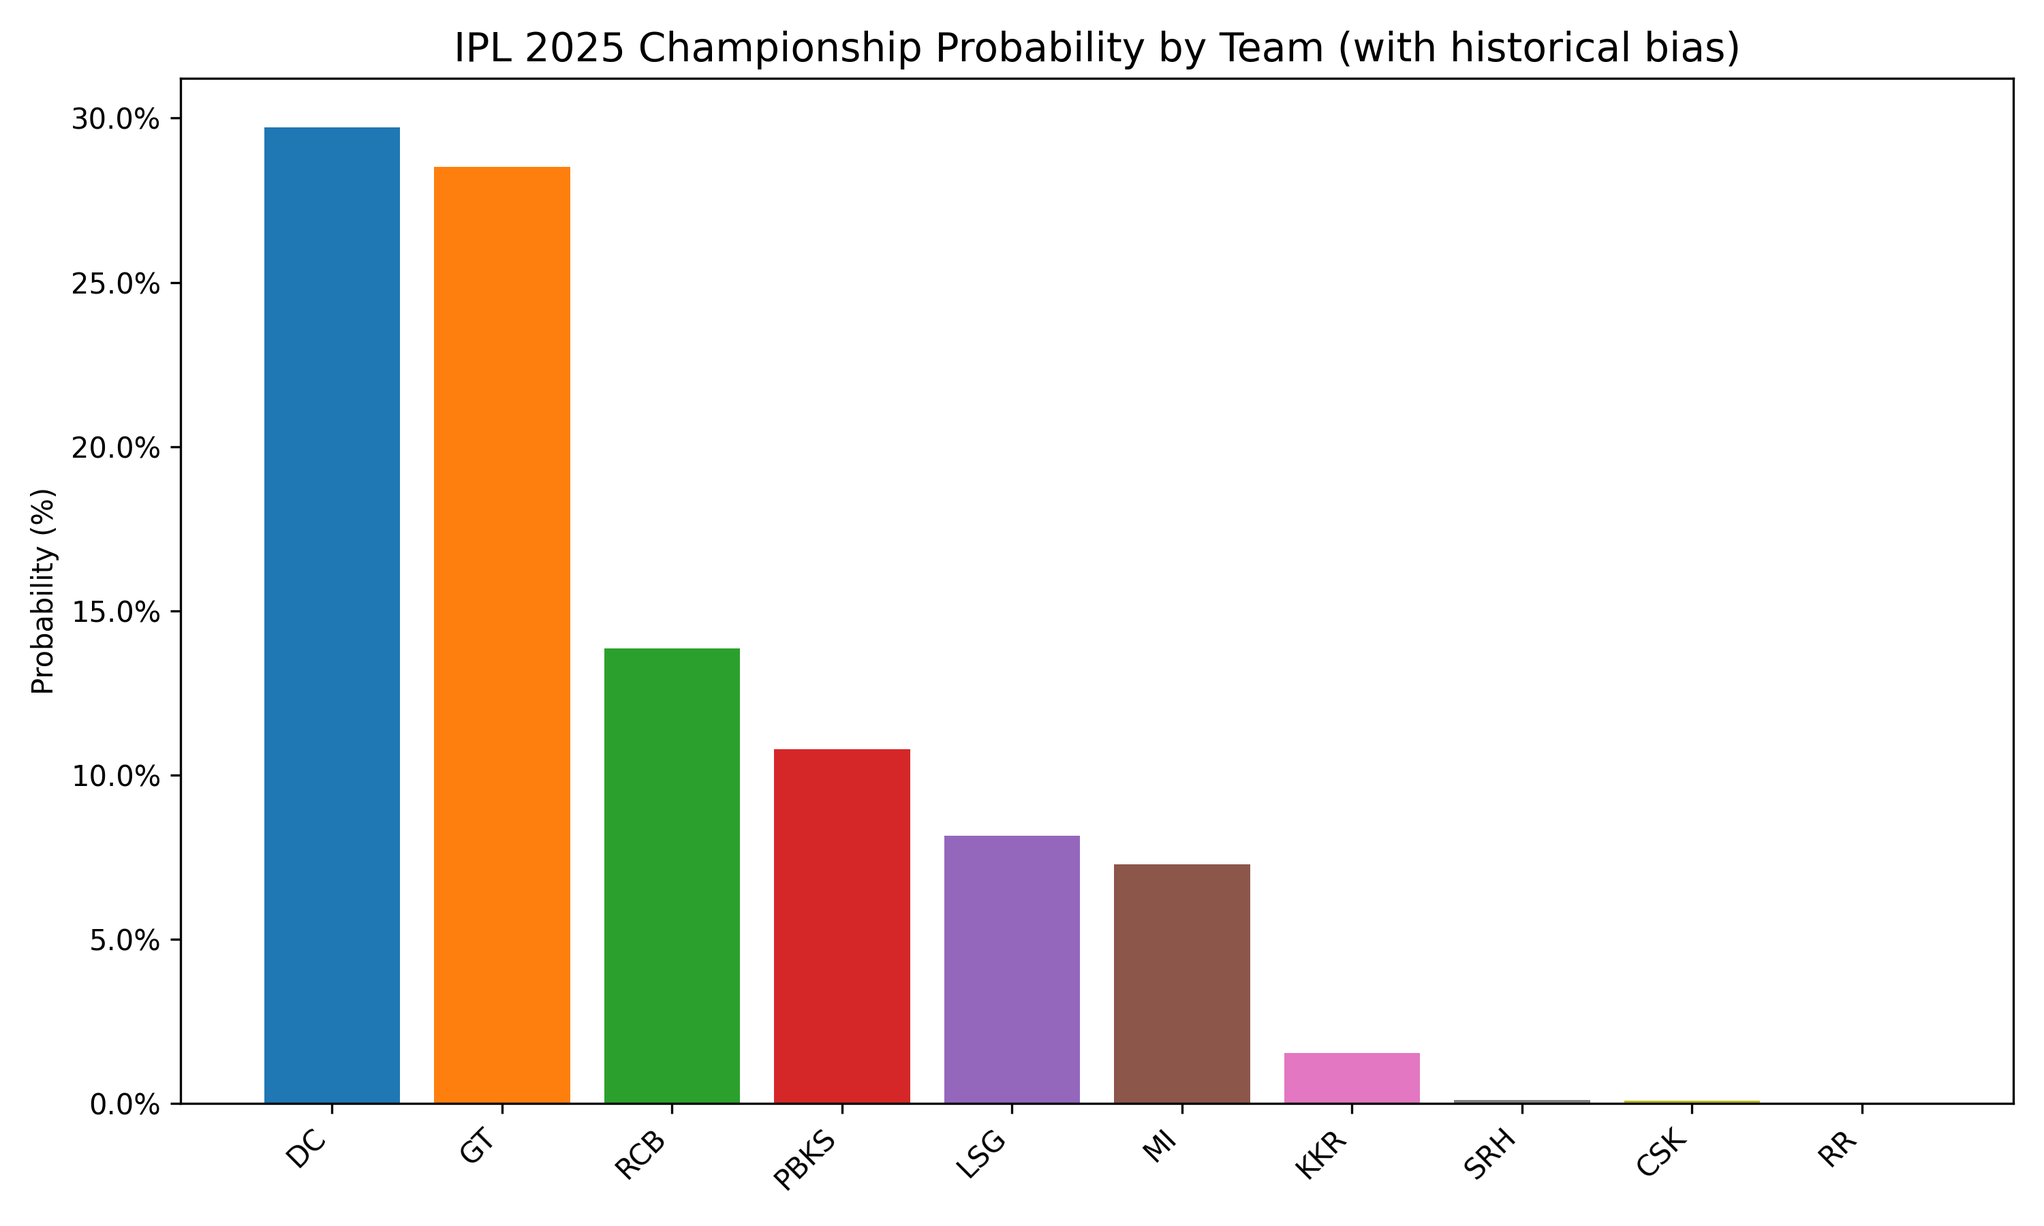
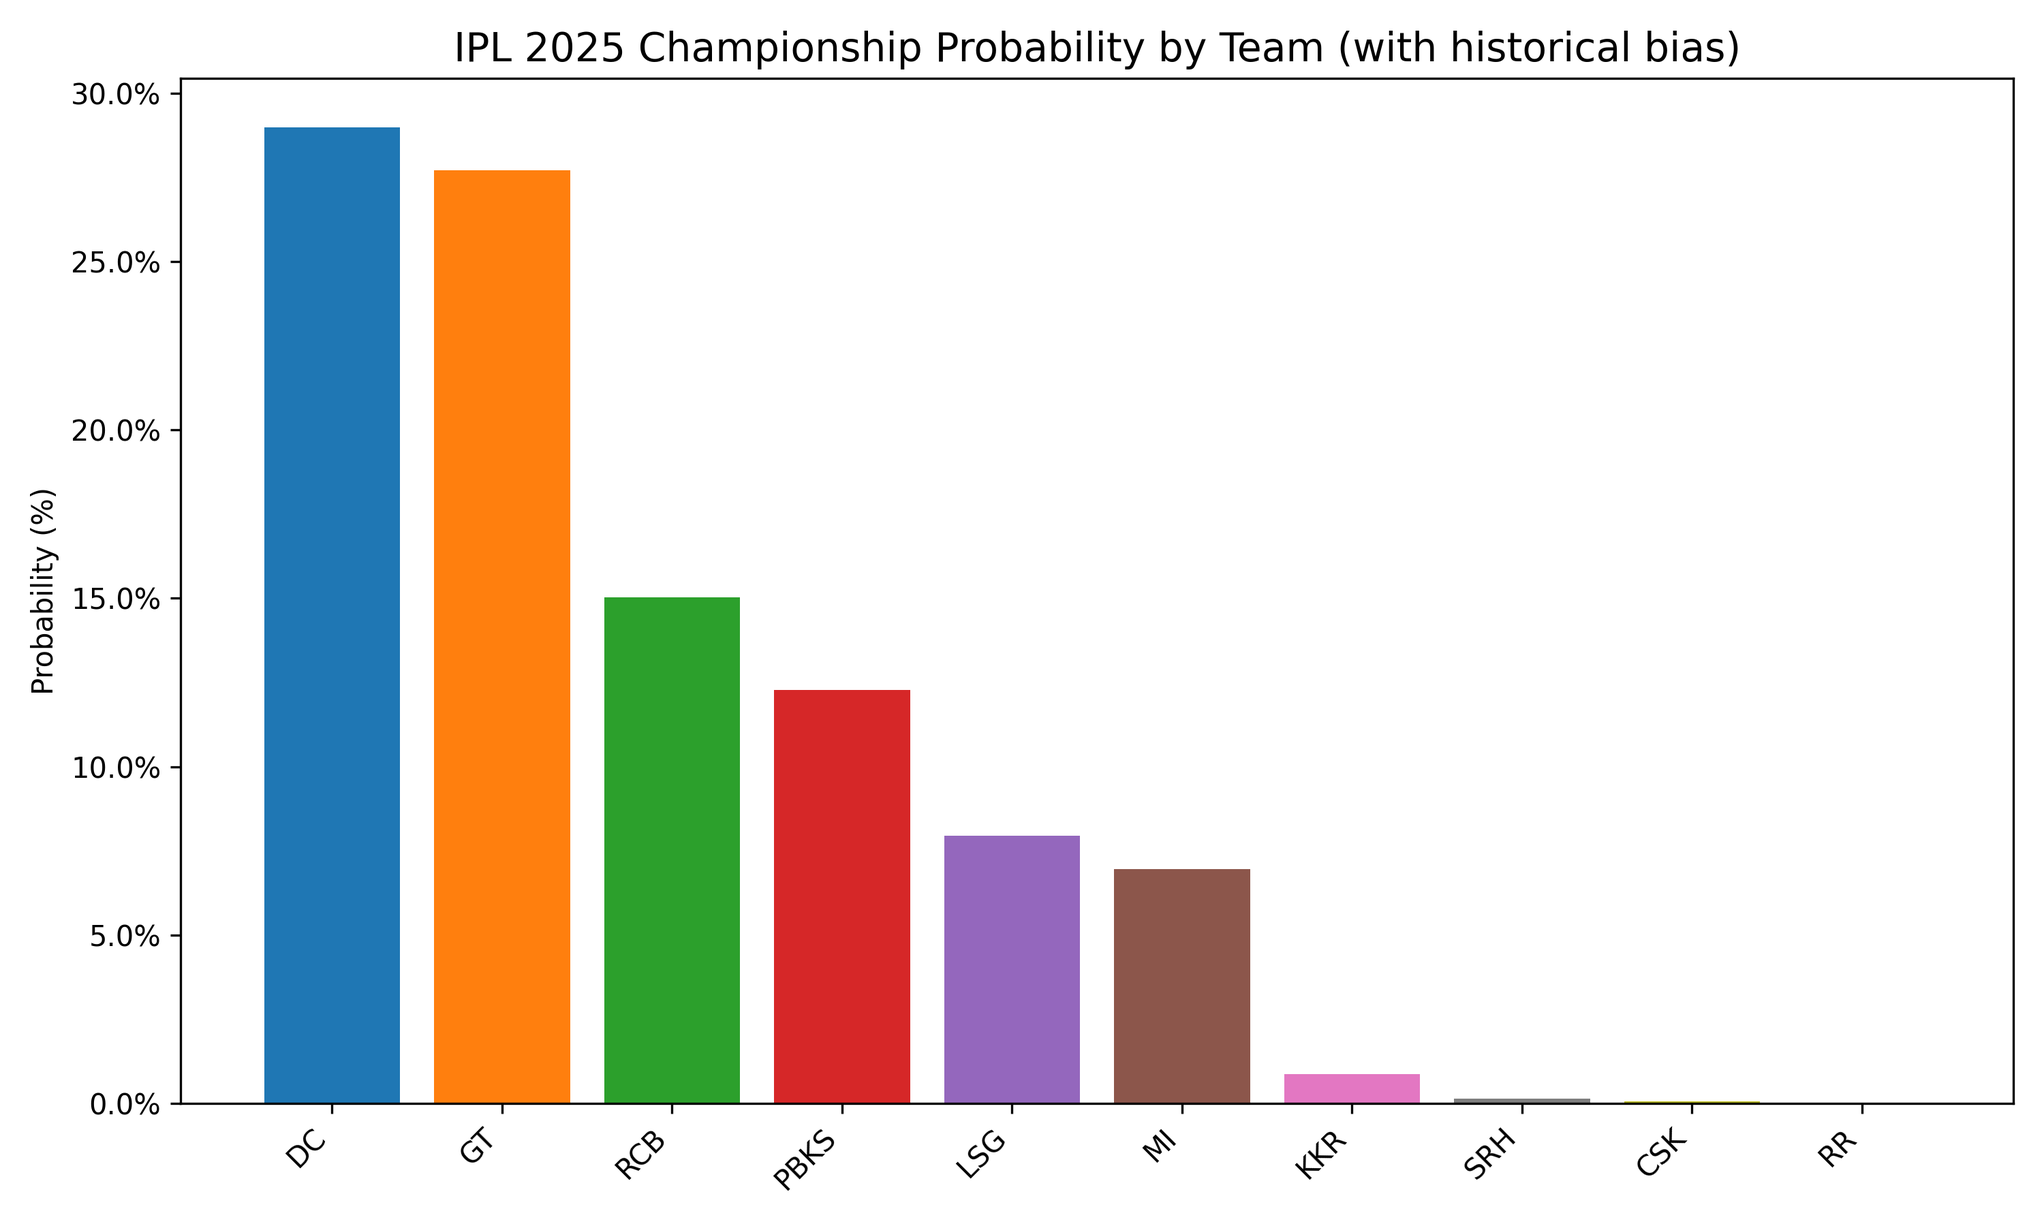
adding readme

diff --git a/ipl2025/ipl_2025_mc.py b/ipl2025/ipl_2025_mc.py
@@ -45,11 +45,18 @@ if 'To be announced' in teams:
     teams.remove('To be announced')
 
 # Define a function to update the result for a given match number
-def update_result(df, match_number, winner):
-    # Ensure winner abbreviation is used if full name provided
-    winner_abbr = team_abbreviations.get(winner, winner)
+def update_result(df, match_number, winner=None):
+    """
+    Update the result for a given match number.
+    If winner is None or 'NR', mark as No Result (e.g., rain washout).
+    Otherwise, use the winner's abbreviation.
+    """
     if match_number in df['Match Number'].values:
-        df.loc[df['Match Number'] == match_number, 'Result'] = winner_abbr
+        if winner is None or winner == 'NR':
+            df.loc[df['Match Number'] == match_number, 'Result'] = 'NR'
+        else:
+            winner_abbr = team_abbreviations.get(winner, winner)
+            df.loc[df['Match Number'] == match_number, 'Result'] = winner_abbr
     else:
         print(f"Warning: Match Number {match_number} not found in schedule.")
     return df
@@ -57,7 +64,8 @@ def update_result(df, match_number, winner):
 # ==============================================================================
 # == UPDATE COMPLETED MATCH RESULTS HERE ==
 # ==============================================================================
-# Match results updated through match 42
+# Match results updated through match 42, plus example no-result matches
+# Example: Assume matches 44 and 45 were washed out due to rain
 
 df_abbreviated = update_result(df_abbreviated, match_number=1, winner='RCB')
 df_abbreviated = update_result(df_abbreviated, match_number=2, winner='SRH')
@@ -102,6 +110,11 @@ df_abbreviated = update_result(df_abbreviated, match_number=40, winner='DC')
 df_abbreviated = update_result(df_abbreviated, match_number=41, winner='MI')
 df_abbreviated = update_result(df_abbreviated, match_number=42, winner='RCB')
 df_abbreviated = update_result(df_abbreviated, match_number=43, winner='SRH')
+# Example no-result matches (rain washouts)
+df_abbreviated = update_result(df_abbreviated, match_number=44, winner='NR')
+df_abbreviated = update_result(df_abbreviated, match_number=45, winner='MI')
+df_abbreviated = update_result(df_abbreviated, match_number=46, winner='RCB')
+
 
 
 # ==============================================================================
@@ -110,23 +123,31 @@ df_abbreviated = update_result(df_abbreviated, match_number=43, winner='SRH')
 completed_matches = df_abbreviated[df_abbreviated['Result'] != ''].copy()
 
 # Initialize a points dictionary (base state)
-initial_points_table = {team: {'Matches': 0, 'Wins': 0, 'Losses': 0, 'Points': 0} for team in teams}
+initial_points_table = {team: {'Matches': 0, 'Wins': 0, 'Losses': 0, 'Points': 0, 'No Results': 0} for team in teams}
 
-# Calculate wins, losses, and points from completed matches
+# Calculate wins, losses, points, and no-results from completed matches
 for _, row in completed_matches.iterrows():
     home = row['Home Team']
     away = row['Away Team']
-    winner = row['Result']
+    result = row['Result']
 
     if home in initial_points_table: initial_points_table[home]['Matches'] += 1
     if away in initial_points_table: initial_points_table[away]['Matches'] += 1
 
-    if winner == home:
+    if result == 'NR':
+        # No Result: Both teams get 1 point
+        if home in initial_points_table:
+            initial_points_table[home]['Points'] += 1
+            initial_points_table[home]['No Results'] += 1
+        if away in initial_points_table:
+            initial_points_table[away]['Points'] += 1
+            initial_points_table[away]['No Results'] += 1
+    elif result == home:
         if home in initial_points_table:
             initial_points_table[home]['Wins'] += 1
             initial_points_table[home]['Points'] += 2
         if away in initial_points_table: initial_points_table[away]['Losses'] += 1
-    elif winner == away:
+    elif result == away:
         if away in initial_points_table:
             initial_points_table[away]['Wins'] += 1
             initial_points_table[away]['Points'] += 2
@@ -138,7 +159,7 @@ print(f"Current Standings ({pd.Timestamp.now().strftime('%Y-%m-%d %H:%M')})")
 print(f"Based on {len(completed_matches)} completed matches:")
 initial_points_df = pd.DataFrame.from_dict(initial_points_table, orient='index')
 initial_points_df = initial_points_df.reset_index().rename(columns={'index': 'Team'})
-print(initial_points_df.sort_values(by=['Points', 'Wins'], ascending=[False, False]).to_string(index=False))
+print(initial_points_df.sort_values(by=['Points', 'Wins'], ascending=[False, False])[ ['Team', 'Matches', 'Wins', 'Losses', 'No Results', 'Points'] ].to_string(index=False))
 print("=" * 60)
 
 # --- Monte Carlo Simulation Part ---
@@ -259,16 +280,15 @@ else:
         q1_winner = simulate_playoff_match(
             team1['team'], team2['team'],
             team1['points'], team2['points'],
-            bias_factor=0.2
+            bias_factor=0.1
         )
         q1_loser = team2['team'] if q1_winner == team1['team'] else team1['team']
 
         # Simulate Eliminator (3rd vs 4th) with points-based probability
         eliminator_winner = simulate_playoff_match(
             team3['team'], team4['team'],
-            team3['points'],
-            team4['points'],
-            bias_factor=0.2
+            team3['points'], team4['points'],
+            bias_factor=0.1
         )
 
         # Track Qualifier 2 appearances
@@ -283,7 +303,7 @@ else:
         q2_winner = simulate_playoff_match(
             q1_loser, eliminator_winner,
             q1_loser_points, eliminator_winner_points,
-            bias_factor=0.3
+            bias_factor=0.2
         )
 
         # Track Final appearances
@@ -301,7 +321,7 @@ else:
         # Historical data suggests Qualifier 1 winner has a higher chance (10 out of 14 times)
         q1_win_probability_bias = 10 / 14
         base_probability = 0.5
-        biased_probability_q1 = base_probability + (q1_win_probability_bias - base_probability) * 0.6 # Adjust 0.6 for strength of bias
+        biased_probability_q1 = base_probability + (q1_win_probability_bias - base_probability) * 0.4 # Adjust 0.4 for strength of bias
 
         # Introduce a slight randomness based on points in the final as well
         points_difference_factor = 0.005 # Adjust this to control impact of points difference
@@ -414,7 +434,7 @@ else:
             })
         else:
             points_stats_data.append({
-                'Team': team, 'Avg Pts': 'N/A', 'Median Pts': 'N/A', 'Mode Pts': 'N/A', 'Pts Range (25-75%)': 'N/A'
+                'Team': team, 'Avg Pts': 'N/A', 'Median Pts': 'N/A', 'Mode Pts': 'N/A'
             })
 
     points_stats_df = pd.DataFrame(points_stats_data)
@@ -426,28 +446,28 @@ else:
     print("=" * 60)
 
     # --- Optional: Create Championship Probability Visualization ---
-    plt.figure(figsize=(10, 6))
-    teams_sorted = [team for team in winner_df['Team']]
-    probs = [prob for prob in winner_df['Championship %']]
+    # plt.figure(figsize=(10, 6))
+    # teams_sorted = [team for team in winner_df['Team']]
+    # probs = [prob for prob in winner_df['Championship %']]
 
-    colors = ['#1f77b4', '#ff7f0e', '#2ca02c', '#d62728', '#9467bd',
-              '#8c564b', '#e377c2', '#7f7f7f', '#bcbd22', '#17becf']
+    # colors = ['#1f77b4', '#ff7f0e', '#2ca02c', '#d62728', '#9467bd',
+    #           '#8c564b', '#e377c2', '#7f7f7f', '#bcbd22', '#17becf']
 
-    plt.bar(teams_sorted, probs, color=colors[:len(teams_sorted)])
-    plt.title('IPL 2025 Championship Probability by Team (with historical bias)', fontsize=14)
-    plt.ylabel('Probability (%)')
-    plt.xticks(rotation=45, ha='right')
-    plt.gca().yaxis.set_major_formatter(PercentFormatter())
-    plt.tight_layout()
+    # plt.bar(teams_sorted, probs, color=colors[:len(teams_sorted)])
+    # plt.title('IPL 2025 Championship Probability by Team (with historical bias)', fontsize=14)
+    # plt.ylabel('Probability (%)')
+    # plt.xticks(rotation=45, ha='right')
+    # plt.gca().yaxis.set_major_formatter(PercentFormatter())
+    # plt.tight_layout()
 
-    # Save the figure
-    plt.savefig('ipl_2025_championship_probabilities_biased.png', dpi=300)
-    print("\nChampionship probability chart (with historical bias) saved as 'ipl_2025_championship_probabilities_biased.png'")
+    # # Save the figure
+    # plt.savefig('ipl_2025_championship_probabilities_biased.png', dpi=300)
+    # print("\nChampionship probability chart (with historical bias) saved as 'ipl_2025_championship_probabilities_biased.png'")
 
     print("\nNotes:")
     print(" - Probabilities are estimates based on Monte Carlo simulation")
     print(" - League stage uses 50/50 random outcomes for remaining matches")
     print(" - Playoff simulations are weighted by team points (stronger teams have advantage)")
-    print(" - The final match simulation now incorporates a historical bias favoring the winner of Qualifier 1.")
+    print(" - The final match simulation incorporates a very strong historical bias (10/14) favoring the winner of Qualifier 1.")
     print(" - Results reflect both remaining schedule difficulty and playoff format advantage.")
     print("=" * 60)

diff --git a/README.md b/README.md
@@ -1,1 +1,129 @@
-# ipl-monte-carlo-sims
+# IPL 2025 Monte Carlo Outcome Simulator
+
+## 1. Overview
+
+This project uses Monte Carlo simulations to predict the potential outcomes of the IPL 2025 season based on the schedule, completed match results, and defined probabilistic models for remaining matches and playoffs.
+
+It simulates the remainder of the season thousands (or millions) of times to estimate:
+*   The probability of each team qualifying for the Top 4 (playoffs).
+*   The probability of each team winning the championship.
+*   The likelihood of teams reaching specific playoff stages (Qualifier 1, Eliminator, Qualifier 2, Final).
+*   The distribution of final points for each team (Average, Median, Mode).
+
+## 2. Prerequisites
+
+*   **Python 3.x**
+*   **Python Libraries:**
+    *   `pandas`
+    *   `numpy`
+    *   `matplotlib` (Optional, used for generating plots if uncommented)
+
+## 3. Installation
+
+1.  **Get the Files:** Ensure you have the following two files in the same directory:
+    *   `ipl_2025_mc.py` (The Python script)
+    *   `ipl-2025-UTC.csv` (The schedule and results data file)
+2.  **Install Libraries:** Open your terminal or command prompt and install the required libraries using pip:
+    ```bash
+    pip install pandas numpy matplotlib
+    ```
+
+## 4. How to Run & Update Results
+
+### Running the Simulation
+
+1.  Navigate to the directory containing the script and CSV file in your terminal.
+2.  Run the script using Python:
+    ```bash
+    python ipl_2025_mc.py
+    ```
+3.  The script will first display the **Current Standings** based on the results already entered in the script.
+4.  It will then run the specified number of Monte Carlo simulations (default is 1,000,000 in the provided code, adjustable via `num_simulations` variable).
+5.  Finally, it will print the calculated probabilities and statistics to the console.
+
+### Updating Match Results
+
+As the IPL season progresses, you need to update the script with the actual results of completed matches for the simulations to be accurate.
+
+1.  **Open the Script:** Edit the `ipl_2025_mc.py` file in a text editor or IDE.
+2.  **Locate the Update Section:** Find the section marked with:
+    ```python
+    # ==============================================================================
+    # == UPDATE COMPLETED MATCH RESULTS HERE ==
+    # ==============================================================================
+    ```
+3.  **Add/Update Results:** For each completed match, use the `update_result` function. You need the `match_number` and the `winner` (using the team abbreviations defined in the `team_abbreviations` dictionary).
+    *   **For a clear winner:**
+        ```python
+        # Example: Match 47 won by Rajasthan Royals (RR)
+        df_abbreviated = update_result(df_abbreviated, match_number=47, winner='RR')
+        ```
+    *   **For a No Result (e.g., washout):**
+        ```python
+        # Example: Match 48 was a No Result
+        df_abbreviated = update_result(df_abbreviated, match_number=48, winner='NR')
+        # or alternatively:
+        # df_abbreviated = update_result(df_abbreviated, match_number=48, winner=None)
+        ```
+    *   **Ensure you use the correct abbreviations:** KKR, RCB, SRH, RR, CSK, MI, DC, LSG, GT, PBKS.
+4.  **Save the Script:** Save the changes to `ipl_2025_mc.py`.
+5.  **Re-run:** Execute the script again (`python ipl_2025_mc.py`) to get updated predictions based on the new results.
+
+## 5. Monte Carlo Simulation & Code Logic
+
+### What are Monte Carlo Simulations?
+
+Monte Carlo simulation is a computational technique that uses repeated random sampling to obtain numerical results. It's particularly useful for modeling phenomena with significant uncertainty. In this context, the uncertainty lies in the outcome of future cricket matches.
+
+Instead of predicting a single outcome, we simulate the *entire* remaining season many times. Each simulation represents one possible future. By analyzing the distribution of outcomes across thousands of these simulated futures, we can estimate the probability of different events (like a team winning).
+
+### How the Code Works
+
+1.  **Load Data:** Reads the schedule and basic team info from `ipl-2025-UTC.csv`.
+2.  **Apply Known Results:** Updates the schedule DataFrame based on the results hardcoded in the `UPDATE COMPLETED MATCH RESULTS HERE` section.
+3.  **Calculate Initial State:** Determines the current points table based *only* on the completed matches entered.
+4.  **Simulation Loop:** Runs `num_simulations` times:
+    *   **Copy Initial State:** Starts each simulation run with the current, real-world points table.
+    *   **Simulate Remaining League Matches:** For each match yet to be played in the league stage, it randomly assigns a winner with a **50/50 probability** (see Biases section). Points are updated accordingly for that simulation run.
+    *   **Determine League Standings:** After simulating all league matches, teams are ranked based on Points, then Wins (Note: NRR is ignored for simplicity).
+    *   **Simulate Playoffs:** The Top 4 teams enter a simulated playoff based on the standard IPL format (Qualifier 1, Eliminator, Qualifier 2, Final). Playoff match outcomes are determined using **biased probabilities** (see Biases section).
+    *   **Record Outcomes:** For each simulation, the script records which teams finished in the Top 4, which teams participated in each playoff stage, the final points tally for each team, and the ultimate tournament winner.
+5.  **Aggregate Results:** After all simulations are complete, the script counts how many times each outcome occurred.
+6.  **Calculate Probabilities & Stats:** Divides the counts by `num_simulations` to get probabilities (e.g., Top 4 %, Championship %) and calculates descriptive statistics for points distributions (Mean, Median, Mode).
+7.  **Display Results:** Prints the findings to the console.
+
+## 6. Biases Introduced (and Why)
+
+The simulation incorporates specific biases to make the predictions more realistic than pure randomness:
+
+1.  **Regular Season Matches (50/50 Probability):**
+    *   **Bias:** Assumes any team has an equal chance of winning any remaining league match.
+    *   **Reasoning:** This is a simplification reflecting the high unpredictability of T20 cricket. It doesn't account for team strength, form, or venue during the simulation of these matches, but team strength *is* implicitly factored in when determining the initial playoff seeding based on points accumulated.
+2.  **Playoff Matches (Points-Based Bias):**
+    *   **Bias:** In Qualifier 1, Eliminator, and Qualifier 2, the team entering the match with more points from the league stage is given a slightly higher probability of winning. The `bias_factor` (e.g., 0.1 or 0.2) controls the strength of this advantage. Probabilities are capped (e.g., between 20% and 80%) to prevent extreme skew and allow for upsets.
+    *   **Reasoning:** To reflect that teams finishing higher in the table generally have demonstrated better performance and might have a slight edge in knockout games, while still acknowledging the possibility of upsets.
+3.  **Final Match (Historical Bias):**
+    *   **Bias:** The simulation gives the winner of Qualifier 1 a significantly higher probability of winning the Final, based on historical IPL data (approx. 10 wins in 14 finals for the Q1 winner). A small adjustment based on the finalists' league points is also included.
+    *   **Reasoning:** To incorporate the strong historical trend observed in the IPL playoff format where the team taking the direct route from Qualifier 1 often has an advantage (rest, momentum, potentially playing at a preferred venue determined earlier).
+
+## 7. How to Interpret the Results
+
+The script outputs several tables:
+
+*   **Current Standings:** Shows the points table based *only* on the results you've entered into the script. This is the starting point for all simulations.
+*   **Estimated Top 4 Qualification Probabilities:**
+    *   `Qualification %`: The percentage of simulations where that team finished in the Top 4 of the league standings. A higher percentage indicates a stronger likelihood of making the playoffs.
+*   **CHAMPIONSHIP PROBABILITIES:**
+    *   `Championship %`: The percentage of simulations where that team won the Final, incorporating all playoff and historical biases. This is the model's prediction for the ultimate winner.
+*   **PLAYOFF STAGE ADVANCEMENT PROBABILITIES:**
+    *   `Qualifier 1 %`: Chance of finishing 1st or 2nd in the league.
+    *   `Eliminator %`: Chance of finishing 3rd or 4th in the league.
+    *   `Qualifier 2 %`: Chance of playing in the Qualifier 2 match (either as Q1 Loser or Eliminator Winner).
+    *   `Final %`: Chance of reaching the Grand Final.
+    *   `Champion %`: Same as the Championship Probability table, shown here for comparison across stages. This table helps visualize the most likely paths through the playoffs for each team.
+*   **Estimated Final Points Distribution Statistics:**
+    *   `Avg Pts`: The average number of points a team finished with across all simulations.
+    *   `Median Pts`: The midpoint of the points distribution (50% of simulations finished with more points, 50% with fewer). Less sensitive to extreme outlier results than the average.
+    *   `Mode Pts`: The most frequently occurring final points tally for that team across all simulations. Indicates the most common single points outcome.
+
+**Important Note:** These are probabilistic estimates based on the model's assumptions and the results entered. They are not guarantees and do not account for factors like player injuries, sudden changes in form, specific pitch conditions, or precise Net Run Rate calculations.
